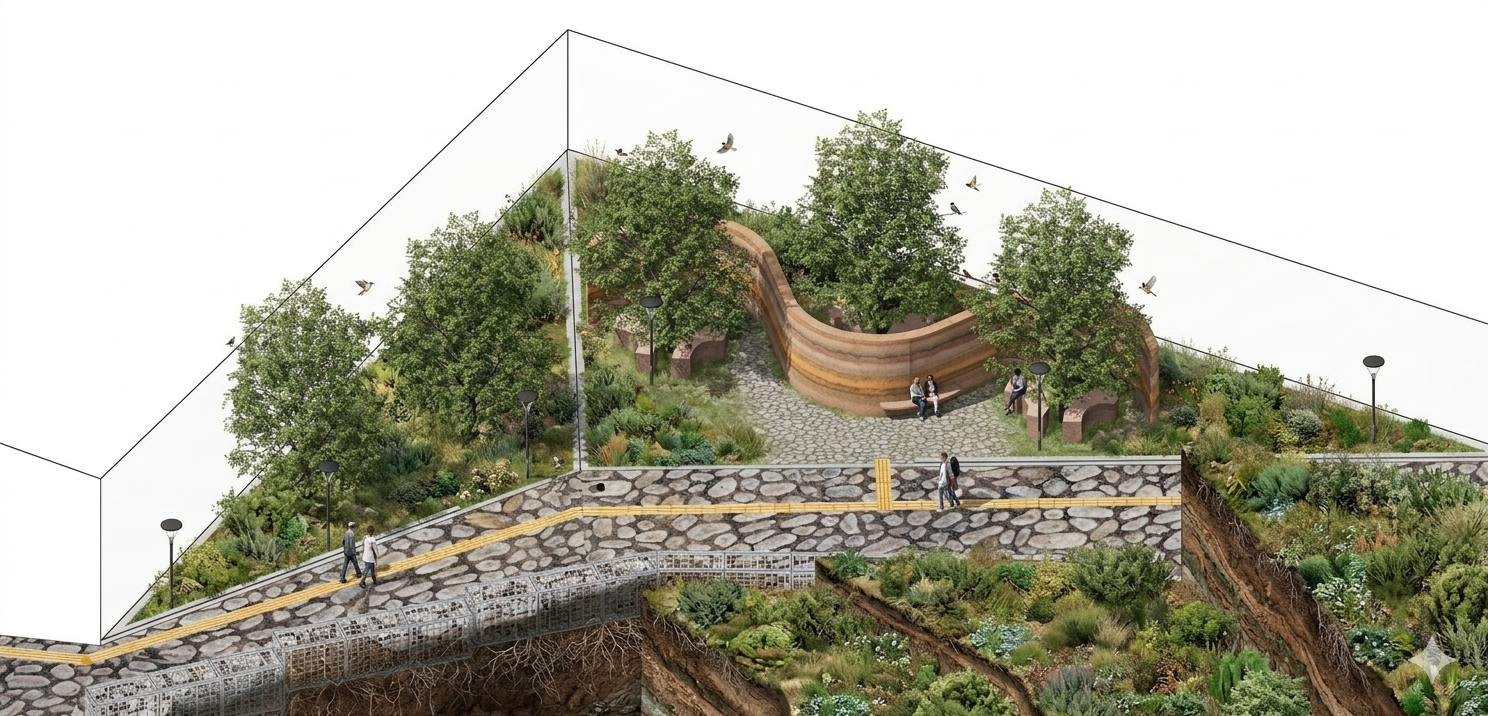
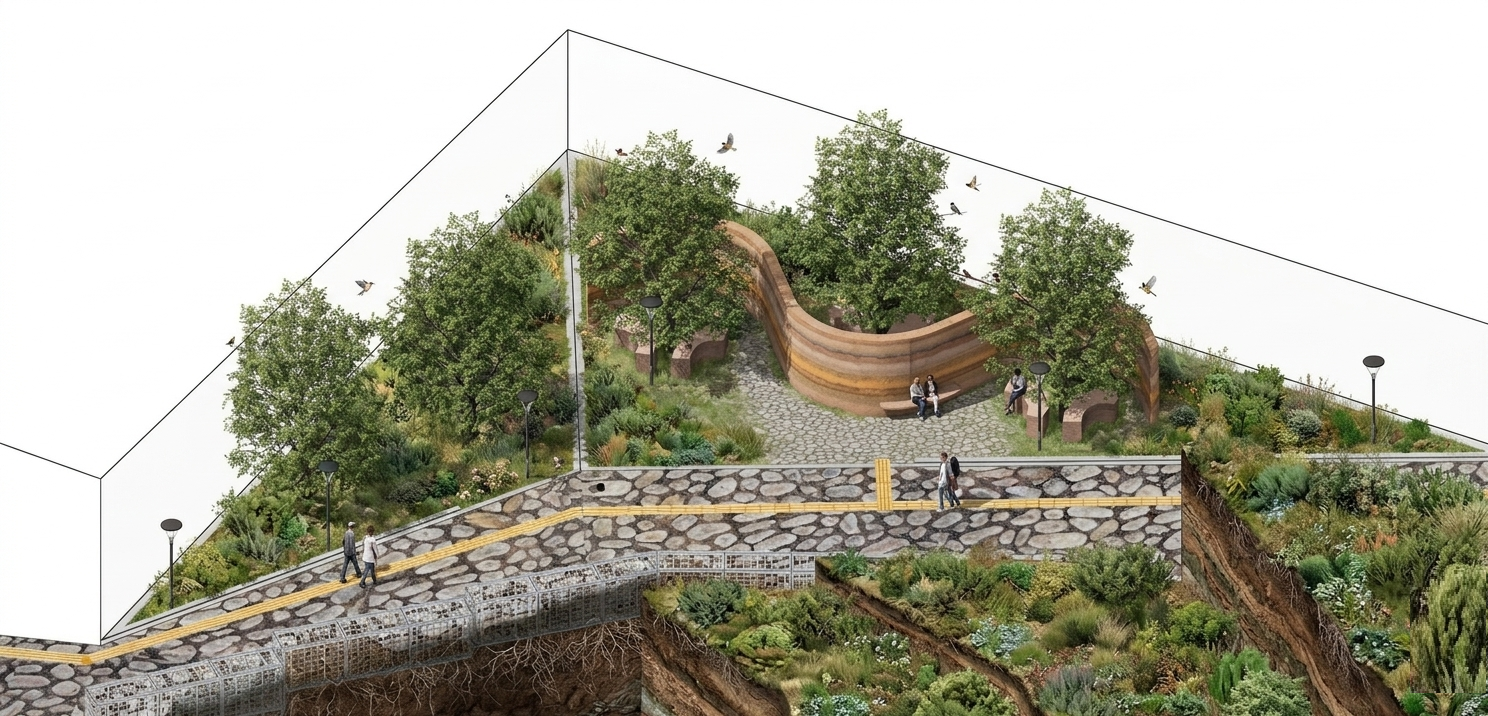
update: Interverciones moradas

Changed region(s): [[0.9274, 0.7989, 1.0, 0.9832]]

diff --git a/index.html b/index.html
@@ -187,24 +187,26 @@ Es una estrategia de acupuntura urbana que combate la desmembración de la zona 
       <div class="hs-wrapper" slot="hotspot-m1" data-position="510.5995m 6.6956m -344.0169m" data-normal="0m 0m 0m"
            data-tipo="morado"
            data-imagen="propuestas/m4.png"
-           data-titulo="Área de recreación y conexión con el área protegida"
-           data-desc="Propuesta de área de recreación conectada directamente con el área natural protegida. Incluye murales temáticos de fauna local, caminos ecológicos, espacios de descanso y vegetación nativa que refuerza la relación entre el barrio y el bosque de Bolognía.">
+           data-titulo="Parque Recreativo "
+           data-desc="Este parque es un propuesta ubicada sobre un área residual en la zona, cercada al área protegida.
+Su objetivo es crear un espacio mas para el ocio, la información (con murales) y el descanso de quien lo visite.">
         <div class="hs-dot-morado" onclick="abrirModalIntervencion(this.parentElement)"></div>
       </div>
 
       <div class="hs-wrapper" slot="hotspot-m2" data-position="508.487m 6.9m -273.7301m" data-normal="0m 0m 0m"
            data-tipo="morado"
            data-imagen="propuestas/m5.png"
-           data-titulo="Ingreso al Bosque de Bolognía"
-           data-desc="Intervención en el ingreso al Bosque de Bolognía mediante muro de tapia pisada y gaviones de piedra, técnica constructiva andina que integra materiales locales. Crea una transición entre el tejido urbano y el área natural, mejorando la permeabilidad peatonal y la imagen del barrio.">
+           data-titulo="Ingreso al Area Protegida"
+           data-desc="El trabajo realizado en la entrada al bosque de Bolognia, trata de integrar la tierra, piedras y colores propios del sitio.
+Conformandose así  intervenciones artísticas sobre muros de Tapia Pisada, el uso de vegetación y monolitos tallados en piedra, también la incorporación de muros Gaviones de piedra en lugares con tendencia a deslizamiento y avasallamiento.">
         <div class="hs-dot-morado" onclick="abrirModalIntervencion(this.parentElement)"></div>
       </div>
 
       <div class="hs-wrapper" slot="hotspot-m3" data-position="536.5529m 6m -282.4163m" data-normal="0m 0m 0m"
            data-tipo="morado"
            data-imagen="propuestas/1 FINAL GR-01.jpeg"
-           data-titulo="Ascenso al Eco de Bolognía"
-           data-desc="Recorrido de ascenso hacia el eco de Bolognía con murales temáticos, vegetación nativa, miradores y espacios de contemplación que articulan el sistema de plazas y parques del barrio con el área natural protegida.">
+           data-titulo="Ascenso al Pasaje de La Queñua"
+           data-desc="La intervención en las graderías que dirigen hacia el ingreso del área protegida, tiene el fin de ser llamativo a quien lo vea al pasar, invitándo a ascender por las graderias al usuario, por medio del arte, la vegetación y la iluminación.">
         <div class="hs-dot-morado" onclick="abrirModalIntervencion(this.parentElement)"></div>
       </div>
 
@@ -212,19 +214,27 @@ Es una estrategia de acupuntura urbana que combate la desmembración de la zona 
            data-tipo="morado"
            data-imagen="propuestas/m2.png"
            data-titulo="Plaza de la Piedra"
-           data-desc="Redesign de la Plaza de la Piedra incorporando mobiliario urbano en piedra local, árbolado nativo y superficies permeables. Un espacio de encuentro vecinal que recupera la memoria del material constructivo tradicional de la zona.">
+           data-desc="Reapropiación de la histórica plaza de la piedra  con la reforestacíon, murlismo y aplicación  de losetas podotáctiles.">
         <div class="hs-dot-morado" onclick="abrirModalIntervencion(this.parentElement)"></div>
       </div>
 
       <div class="hs-wrapper" slot="hotspot-m5" data-position="607.8422m 0m -212.7297m" data-normal="0m 1m 0m"
            data-tipo="morado"
            data-imagen="propuestas/2 CALLEJON -01.jpeg"
-           data-titulo="Mural por los callejones"
+           data-titulo="Mural en los callejones 4  y 5"
            data-desc="Intervención de mural artístico en los callejones del barrio de Bolognía, incorporando fauna nativa andina y elementos del paisaje local para recuperar la identidad cultural del espacio público.">
         <div class="hs-dot-morado" onclick="abrirModalIntervencion(this.parentElement)"></div>
       </div>
 
-      <div class="hs-wrapper" slot="hotspot-m6" data-position="604.5406m 0.2m -69.8878m" data-normal="0m 1m 0m"
+      <div class="hs-wrapper" slot="hotspot-m6" data-position="593.9144m 0m -107.4272m" data-normal="0m 1m 0m"
+           data-tipo="morado"
+           data-imagen="propuestas/2 CALLEJON -01.jpeg"
+           data-titulo="Mural en los callejones 4  y 5"
+           data-desc="Intervención de mural artístico en los callejones del barrio de Bolognía, incorporando fauna nativa andina y elementos del paisaje local para recuperar la identidad cultural del espacio público.">
+        <div class="hs-dot-morado" onclick="abrirModalIntervencion(this.parentElement)"></div>
+      </div>
+
+      <div class="hs-wrapper" slot="hotspot-m7" data-position="604.5406m 0.2m -69.8878m" data-normal="0m 1m 0m"
            data-tipo="morado"
            data-imagen="propuestas/m1.png"
            data-titulo="Plaza de los Leones"
@@ -233,7 +243,7 @@ Es una estrategia de acupuntura urbana que combate la desmembración de la zona 
       </div>
 
       
-      <div class="hs-wrapper" slot="hotspot-m7" data-position="593.3418m 0.3m -346.5342m" data-normal="0m 1m 0m"
+      <div class="hs-wrapper" slot="hotspot-m8" data-position="593.3418m 0.3m -346.5342m" data-normal="0m 1m 0m"
            data-tipo="morado"
            data-imagen="propuestas/m3.png"
            data-titulo="Parque Integral"
@@ -241,19 +251,28 @@ Es una estrategia de acupuntura urbana que combate la desmembración de la zona 
         <div class="hs-dot-morado" onclick="abrirModalIntervencion(this.parentElement)"></div>
       </div>
 
-    <div class="hs-wrapper" slot="hotspot-m8" data-position="620.2111m 0.7m -235.4534m" data-normal="0m 1m 0m"
+    <div class="hs-wrapper" slot="hotspot-m9" data-position="620.2111m 0.7m -235.4534m" data-normal="0m 1m 0m"
            data-tipo="morado"
            data-imagen="propuestas/4 MURAL FINAL.png"
-           data-titulo="Mural por la Plaza de la Piedra"
-           data-desc="Intervención de mural artístico en la Plaza de la piedra, incorporando fauna nativa andina y elementos del paisaje local para recuperar la identidad cultural del espacio público.">
+           data-titulo="Mural Informativo"
+           data-desc="Este mural/panel informativo tiene el objetivo de darle una vista previa al visitante o vecino  que haya llegado  en Puma Katari, trufi o minibus, de que a pocos pasos suyos se encuentran el área protegida de Bolognia y pueda visitarlo.">
         <div class="hs-dot-morado" onclick="abrirModalIntervencion(this.parentElement)"></div>
       </div>
 
-<div class="hs-wrapper" slot="hotspot-m9" data-position="502.969m 6.9m -333.3138m" data-normal="0m 1m 0m"
+    <div class="hs-wrapper" slot="hotspot-m10" data-position="502.969m 6.9m -333.3138m" data-normal="0m 1m 0m"
            data-tipo="morado"
            data-imagen="propuestas/5 MURAL FINAL.png"
            data-titulo="Mural del Área de recreación y conexión con el área protegida"
            data-desc="Intervención de mural artístico situado en el area de recreación en el barrio de Bolognía, incorporando fauna nativa andina y elementos del paisaje local para recuperar la identidad cultural del espacio público.">
+        <div class="hs-dot-morado" onclick="abrirModalIntervencion(this.parentElement)"></div>
+      </div>
+
+
+      <div class="hs-wrapper" slot="hotspot-m11" data-position="607.9236m 0.7m -98.0682m" data-normal="0m 1m 0m"
+           data-tipo="morado"
+           data-imagen="propuestas/MURAL Colibri.png"
+           data-titulo="Mural del Gigante"
+           data-desc="Este mural del Colibrí gigante, recupera el espacio público y residual que exitia en la plaza de los leones. Creando un punto de parada y observación de información para los lugareños y visitantes.">
         <div class="hs-dot-morado" onclick="abrirModalIntervencion(this.parentElement)"></div>
       </div>
 

diff --git a/js/propuestas.js b/js/propuestas.js
@@ -23,16 +23,17 @@ const PROPUESTAS = {
     titulo: 'Mejora de plazas, parques y espacios públicos',
     desc:   'Las intervenciones moradas buscan recuperar y mejorar el espacio público de Bolognía: plazas, parques y áreas verdes. Cada intervención incorpora murales de fauna local, vegetación nativa y mobiliario urbano que refuerzan la identidad del barrio y el vínculo con el entorno natural.',
     items: [
-      { img: 'propuestas/m1.png',    titulo: 'Plaza de los Leones',           desc: 'Recuperación del rol central del espacio con mejoras de iluminación, verde y activación cultural.' },
-      { img: 'propuestas/m2.png',    titulo: 'Plaza de la Piedra',            desc: 'Redesign con mobiliario en piedra local, arbolado nativo y superficies permeables.' },
-      { img: 'propuestas/m3.png',    titulo: 'Parque Integral',               desc: 'Parque accesible con áreas de juego, descanso, vegetación y arte urbano para todos los vecinos.' },
-      { img: 'propuestas/m4.png',    titulo: 'Área de recreación',            desc: 'Área conectada con el área natural protegida, con murales, caminos ecológicos y vegetación nativa.' },
-      { img: 'propuestas/1 FINAL GR-01.jpeg',    titulo: 'Ascenso al Eco de Bolognía',    desc: 'Recorrido con murales, vegetación, miradores y espacios de contemplación hacia el área natural.' },
-      { img: 'propuestas/m5.png',    titulo: 'Ingreso al Bosque de Bolognía', desc: 'Muro de tapia pisada y gaviones de piedra que crean una transición entre el barrio y el área natural.' },
+      { img: 'propuestas/m1.png',    titulo: 'Plaza de los Leones',           desc: 'Intervención en la Plaza de los Leones para recuperar su rol como espacio central del barrio. Incluye mejoras de iluminación, mobiliario urbano, zonas verdes y activación cultural con murales y elementos de arte público que dialogan con la fauna de Bolognía.' },
+      { img: 'propuestas/m2.png',    titulo: 'Plaza de la Piedra',            desc: 'Reapropiación de la histórica plaza de la piedra con la reforestacíon, murlismo y aplicación de losetas podotáctiles.' },
+      { img: 'propuestas/m3.png',    titulo: 'Parque Integral',               desc: 'Parque integral que articula diferentes escalas del espacio público, integrando áreas de juego, descanso, vegetación y arte urbano. Diseñado para ser accesible a todos los habitantes del barrio, con especial atención a adultos mayores y niños.' },
+      { img: 'propuestas/m4.png',    titulo: 'Parque Recreativo',            desc: 'Este parque es un propuesta ubicada sobre un área residual en la zona, cercada al área protegida. Su objetivo es crear un espacio mas para el ocio, la información (con murales) y el descanso de quien lo visite.' },
+      { img: 'propuestas/MURAL Colibri.png', titulo: 'Mural del Gigante', desc:'Este mural del Colibrí gigante, recupera el espacio público y residual que exitia en la plaza de los leones. Creando un punto de parada y observación de información para los lugareños y visitantes.'},
+      { img: 'propuestas/2 CALLEJON -01.jpeg', titulo: 'Mural en los callejones 4 y 5',               desc: 'Intervención de mural artístico en los callejones del barrio de Bolognía, incorporando fauna nativa andina y elementos del paisaje local para recuperar la identidad cultural del espacio público.' },
+      { img: 'propuestas/4 MURAL FINAL.png', titulo:'Mural Informativo', desc:'Este mural/panel informativo tiene el objetivo de darle una vista previa al visitante o vecino que haya llegado en Puma Katari, trufi o minibus, de que a pocos pasos suyos se encuentran el área protegida de Bolognia y pueda visitarlo.'},  
+      { img: 'propuestas/1 FINAL GR-01.jpeg',    titulo: 'Ascenso al Pasaje de La Queñua',    desc: 'La intervención en las graderías que dirigen hacia el ingreso del área protegida, tiene el fin de ser llamativo a quien lo vea al pasar, invitándo a ascender por las graderias al usuario, por medio del arte, la vegetación y la iluminación.' },
+      { img: 'propuestas/m5.png',    titulo: 'Ingreso al Area Protegida', desc: 'El trabajo realizado en la entrada al bosque de Bolognia, trata de integrar la tierra, piedras y colores propios del sitio. Conformandose así intervenciones artísticas sobre muros de Tapia Pisada, el uso de vegetación y monolitos tallados en piedra, también la incorporación de muros Gaviones de piedra en lugares con tendencia a deslizamiento y avasallamiento.' },
       { img: 'propuestas/5 MURAL FINAL.png', titulo: 'Mural del Área de recreación y conexión con el área protegida', desc: 'Intervención de mural artístico situado en el area de recreación en el barrio de Bolognía, incorporando fauna nativa andina y elementos del paisaje local para recuperar la identidad cultural del espacio público.'},
-      { img: 'propuestas/4 MURAL FINAL.png', titulo:'Mural por la Plaza de la Piedra', desc:'Intervención de mural artístico en la Plaza de la piedra, incorporando fauna nativa andina y elementos del paisaje local para recuperar la identidad cultural del espacio público.'},  
-      { img: 'propuestas/2 CALLEJON -01.jpeg', titulo: 'Mural por los Callejones',               desc: 'Intervención de mural artístico en el barrio incorporando fauna nativa andina y elementos del paisaje local.' },
-      
+
       
     ]
   },
